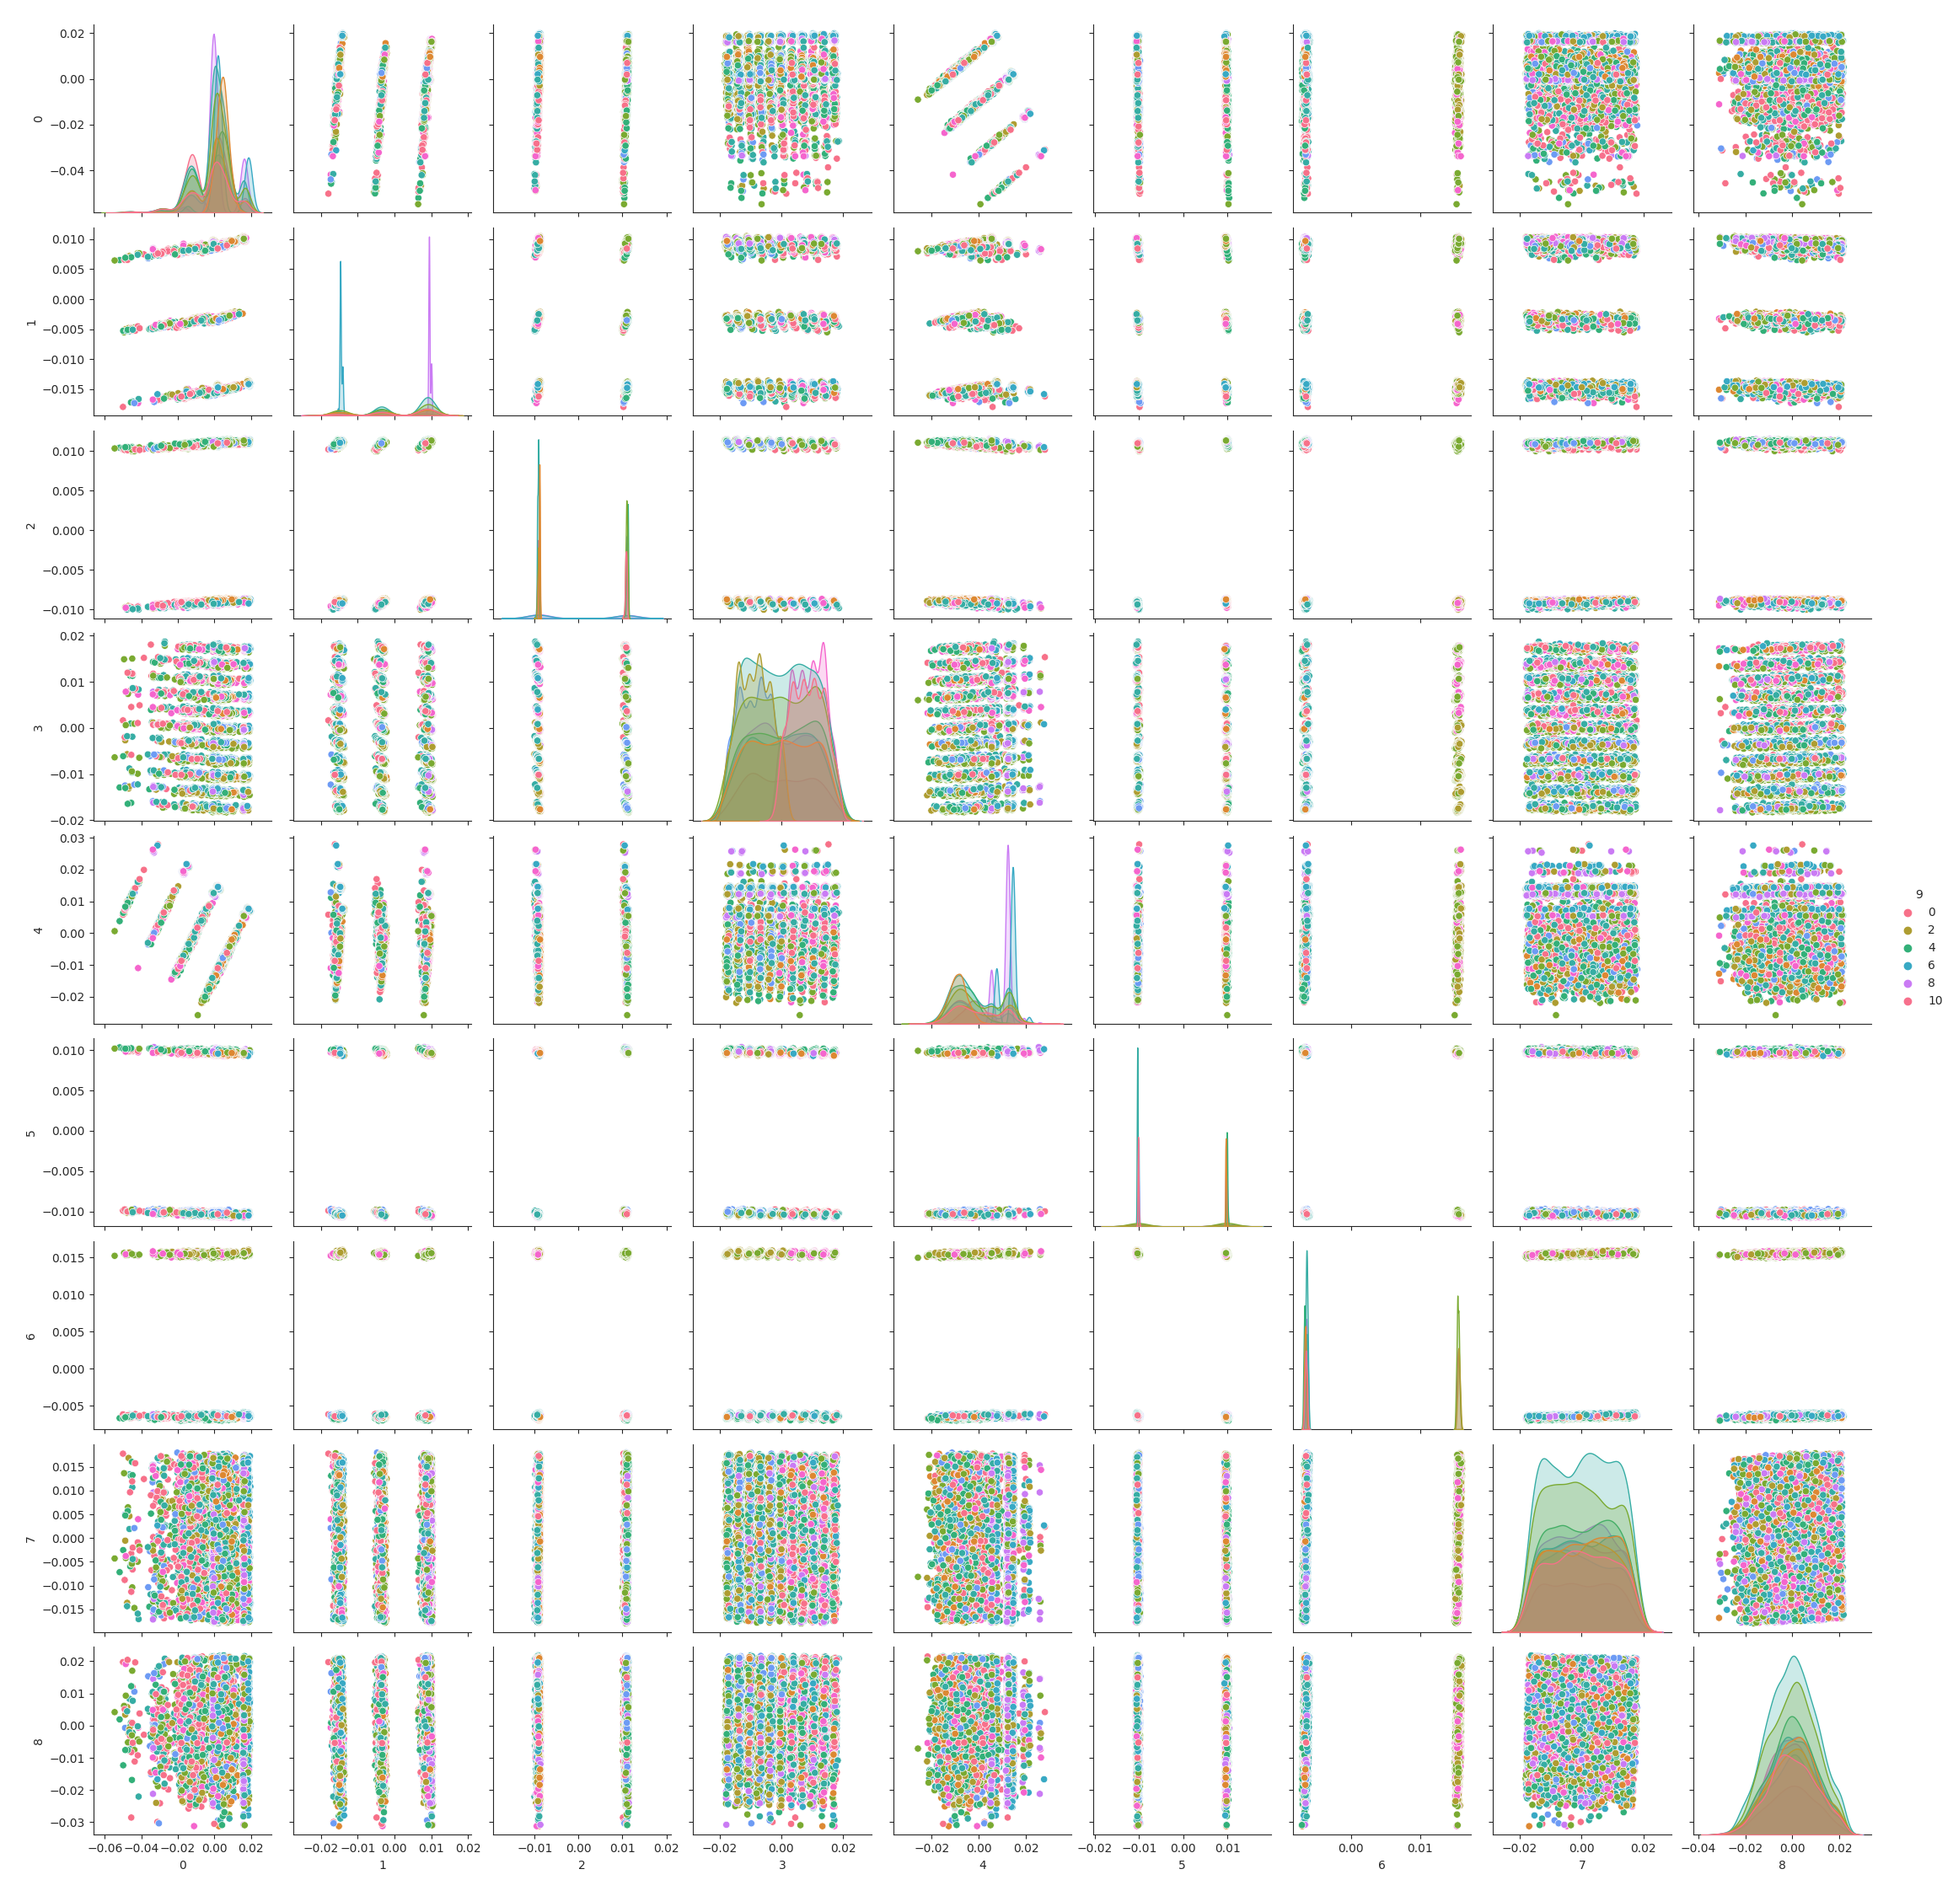
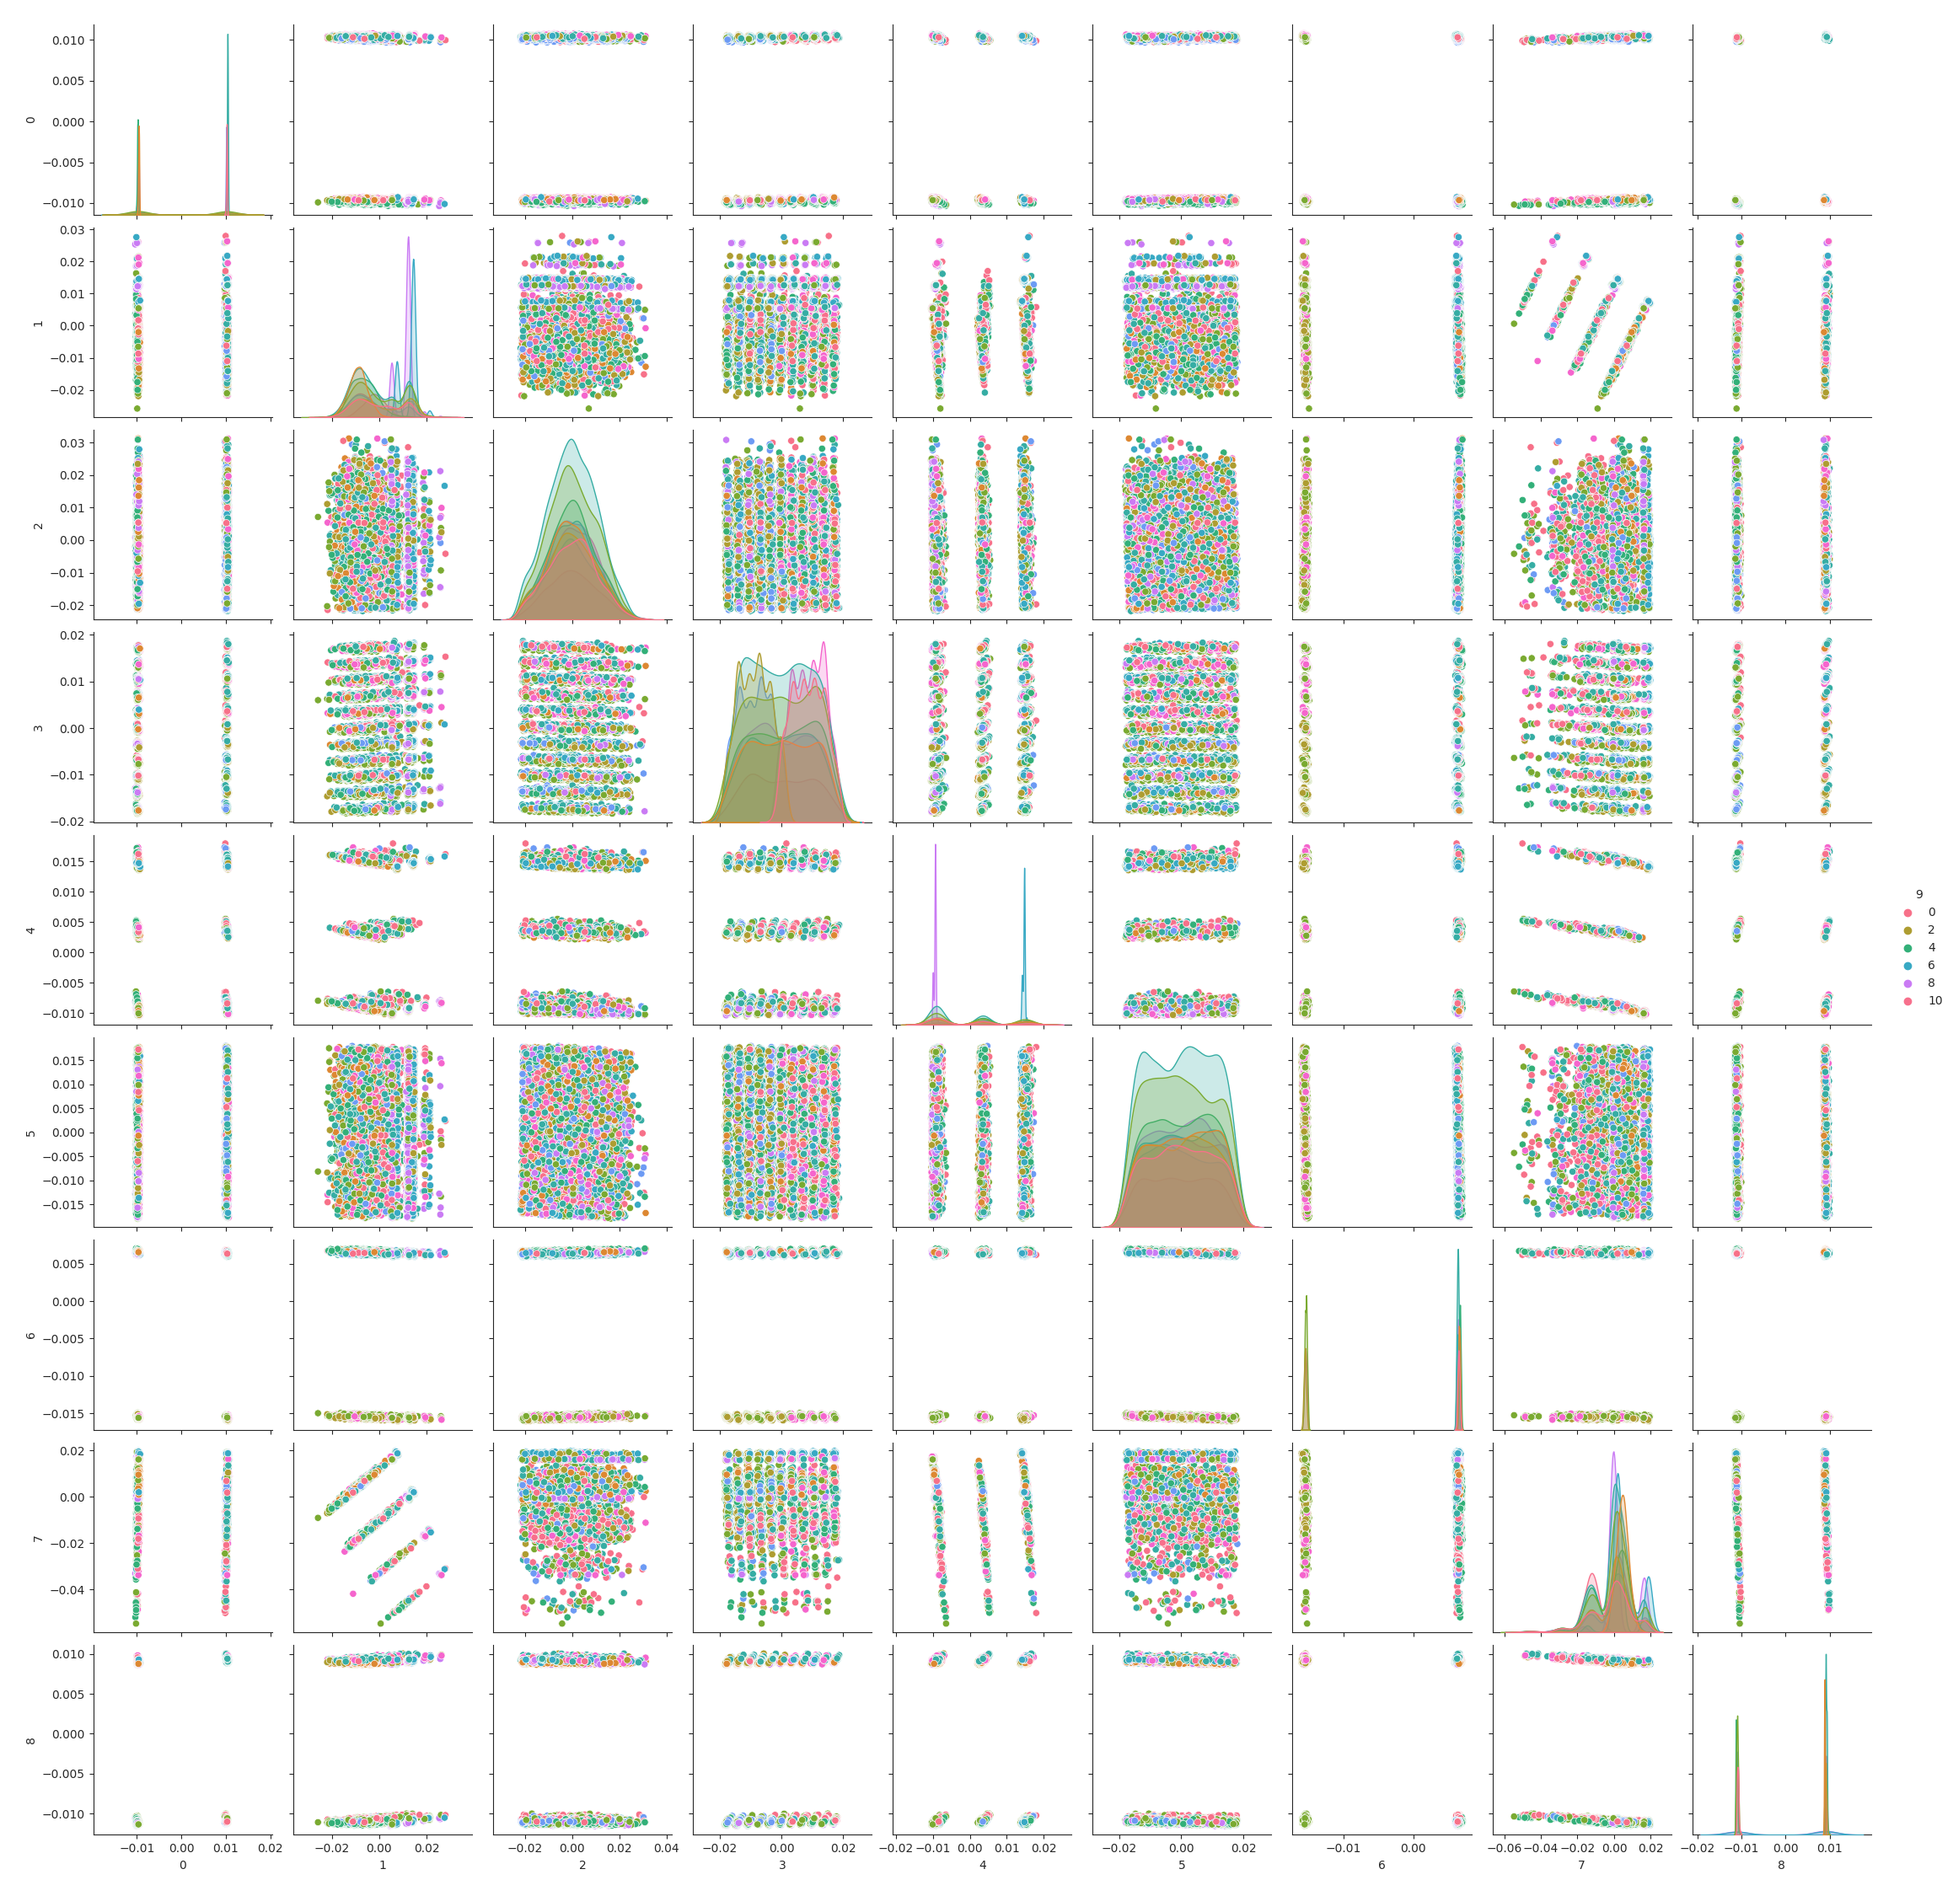
made some ICA updates

diff --git a/unsupervised_learning_dim_reduction/ICA.py b/unsupervised_learning_dim_reduction/ICA.py
@@ -72,7 +72,7 @@ if __name__ == '__main__':
 
     # ica_reconstruction_metrics(loan_data,range(2,11),'loan')
 
-    # ica_experiment(cs_go_data,cs_go_labels,86,'csgo')
+    ica_experiment(cs_go_data,cs_go_labels,86,'csgo')
 
     # ica_experiment(loan_data,loan_labels,9,'loan')
 
